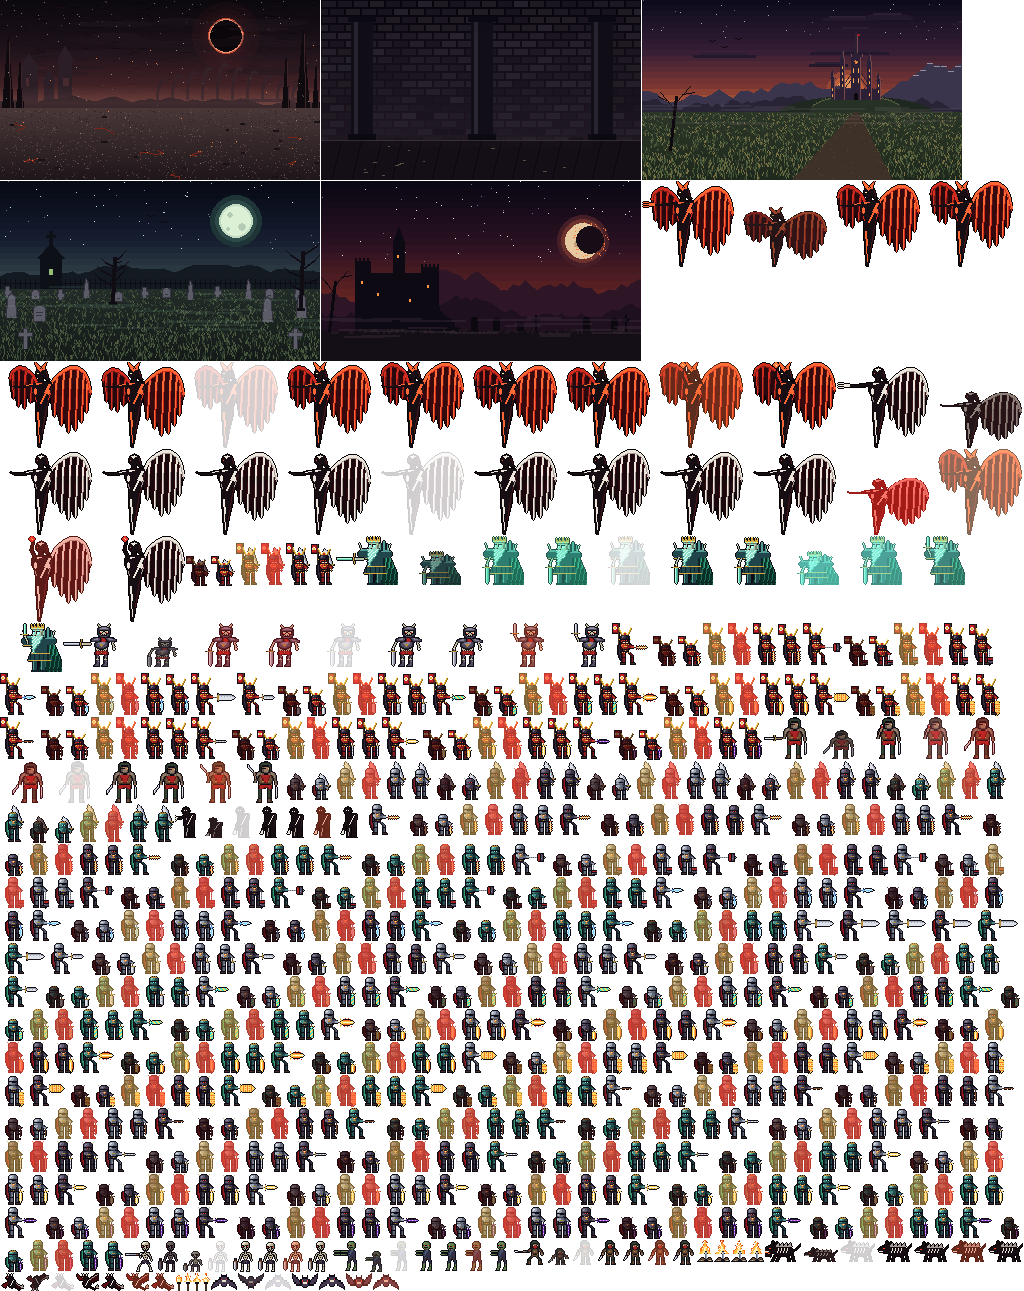
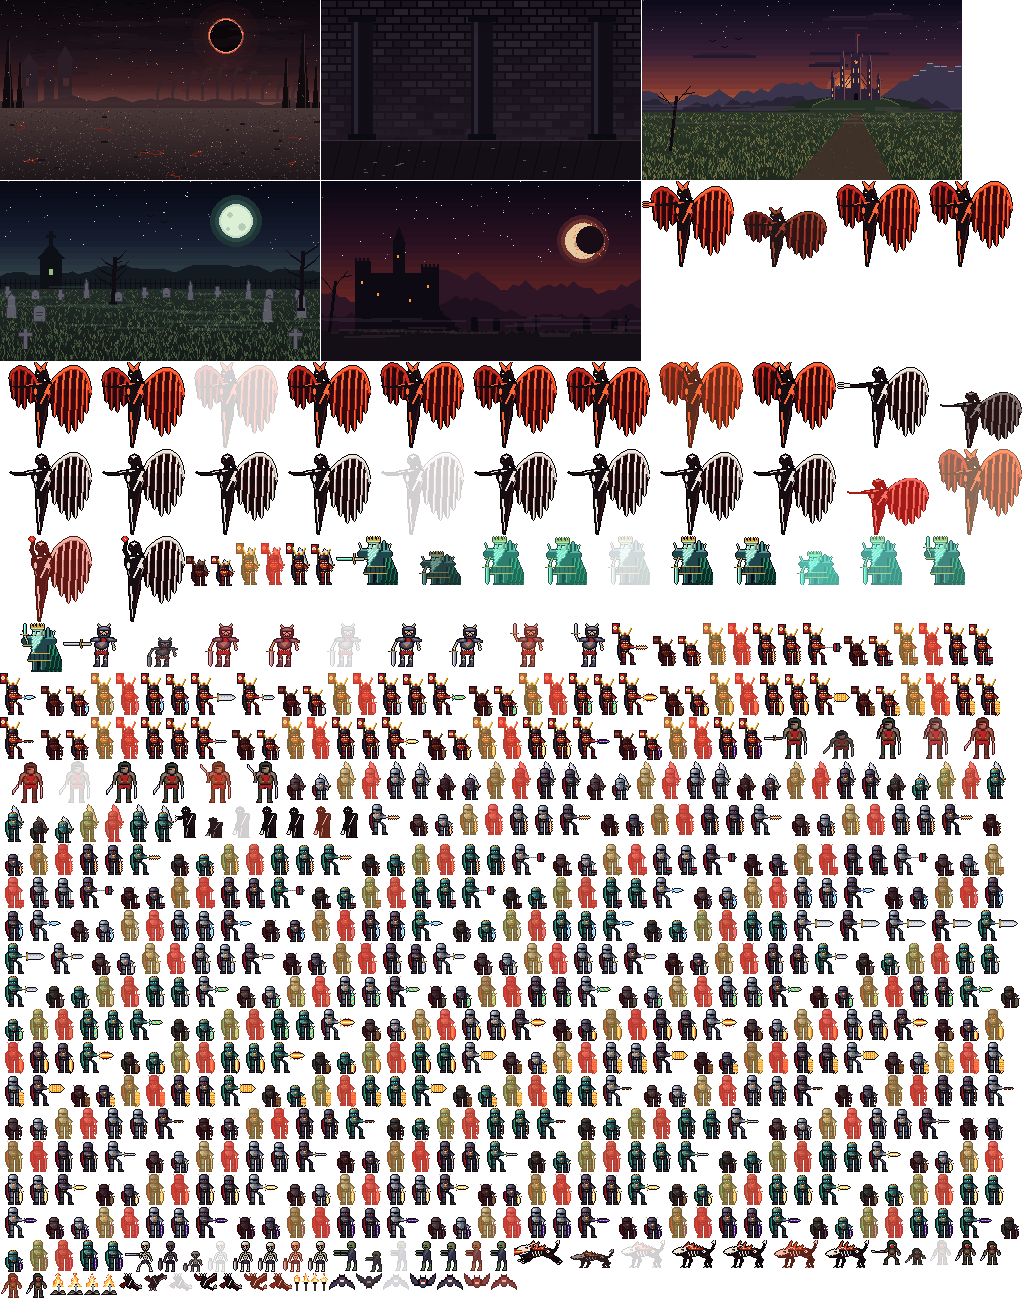
Redraw the hellhound: wolf skull, swept-back horns, fire mane, fire breath
Claude-Session: https://claude.ai/code/session_011mW4u7Ce1C3wwPLST6Z2ZA

diff --git a/fitness_rpg/web/js/game.js b/fitness_rpg/web/js/game.js
@@ -1104,8 +1104,8 @@ const TRANSFORM_TIME = 2.2; // перерождение Серафима во в
 const REVIVE_TIME = 2.5; // Король-Призрак встаёт после первой смерти
 const STUN_TIME = 2.0; // ошеломление гигантским мечом (враг открыт для крита)
 const BURN_EVERY = 1; // жар Радиатора: урон раз в секунду
-const HIT_X = { knight: 30, chief: 28, wraith: 31, seraph: 42, hound: 8, husk: 10 }; // центр врага для эффектов и «!»
-const HEAD_Y = { knight: 58, chief: 56, wraith: 64, bat: 56, imp: 56, seraph: 96, hound: 28, husk: 40 };
+const HIT_X = { knight: 30, chief: 28, wraith: 31, seraph: 42, hound: 12, husk: 10 }; // центр врага для эффектов и «!»
+const HEAD_Y = { knight: 58, chief: 56, wraith: 64, bat: 56, imp: 56, seraph: 96, hound: 30, husk: 40 };
 const SERAPH_HOVER = 12; // Серафим парит над землёй
 /** Высота «центра» врага над землёй для эффектов удара. */
 const hitY = (en) => (en.boss ? (en.kind === "seraph" ? 66 : 24) : Skeleton.FLYING.includes(en.kind) ? 34 : en.kind === "hound" ? 10 : 18);

diff --git a/fitness_rpg/web/sw.js b/fitness_rpg/web/sw.js
@@ -1,5 +1,5 @@
 // Офлайн-кэш: после первого запуска с сетью игра открывается и без интернета.
-const CACHE = "ash-and-iron-v30";
+const CACHE = "ash-and-iron-v31";
 const CORE = [
   "./", "index.html", "style.css", "manifest.webmanifest",
   "js/game.js", "js/motion.js", "js/exercises.js", "js/player.js", "js/sfx.js", "js/gear.js",

diff --git a/fitness_rpg/game/abyss.py b/fitness_rpg/game/abyss.py
@@ -194,32 +194,96 @@ def imp(pose="up"):
     return outlined(s)
 
 
-def hound(pose="idle"):
-    """Адская гончая: чёрный зверь с белыми рёбрами наружу и огнём в пасти."""
-    s = pygame.Surface((36, 22), pygame.SRCALPHA)
-    dx = -3 if pose == "attack" else 0
-    _line(s, BODY, (30, 9), (35, 4), 2)  # хвост
-    pygame.draw.ellipse(s, BODY, (10 + dx, 6, 22, 10))
-    for x0, x1 in ((13, 11), (17, 16), (25, 26), (29, 31)):  # лапы
-        stretch = 2 if pose == "attack" else 0
-        _line(s, BODY, (x0 + dx, 13), (x1 + dx - stretch * (x0 < 20), 21), 2)
-    for x in (16, 19, 22, 25):  # рёбра
-        _line(s, BONE, (x + dx, 8), (x + dx - 1, 12))
-    for x in (14, 18, 22, 26):  # шипы на хребте
-        _poly(s, BONE2, [(x + dx, 6), (x + dx + 2, 3), (x + dx + 3, 6)])
-    hx = 2 + dx
-    _poly(s, BODY, [(hx, 9), (hx + 4, 6), (hx + 11, 6), (hx + 11, 13), (hx + 5, 12)])
-    _line(s, BODY, (hx + 7, 6), (hx + 8, 1), 2)  # уши
-    _line(s, BODY, (hx + 10, 6), (hx + 12, 2), 2)
-    s.set_at((hx + 5, 8), EYE)
-    s.set_at((hx + 6, 8), EYE)
-    if pose == "attack":  # пасть раскрыта, внутри огонь
-        _poly(s, BODY, [(hx, 12), (hx + 6, 12), (hx + 6, 16), (hx + 1, 15)])
-        _line(s, MARK, (hx + 1, 12), (hx + 5, 13))
-        _line(s, BONE, (hx, 11), (hx + 4, 11))
+FIRE = ((150, 30, 20), (236, 104, 40), (255, 210, 120))  # тёмное, яркое и белое пламя
+
+
+def _flame(s, x, y, h, flick):
+    """Язык пламени высотой h от точки (x, y) вверх, кончик клонится назад (вправо)."""
+    lean = 1 + flick
+    _poly(s, FIRE[0], [(x - 1, y), (x + lean, y - h), (x + 2, y)])
+    if h > 2:
+        _line(s, FIRE[1], (x, y - 1), (x + lean, y - h + 1))
+    if h > 3:
+        s.set_at((x + lean // 2, y - 1), FIRE[2])
+
+
+def hound(pose="idle", flick=0):
+    """Адская гончая: поджарый чёрный зверь с белым волчьим черепом, рогами вдоль шеи, белыми рёбрами
+    и хребтом, огненной гривой и хвостом-хлыстом с костяным жалом. Смотрит влево."""
+    s = pygame.Surface((50, 28), pygame.SRCALPHA)
+    atk, low = pose == "attack", pose == "windup"
+    ox = 6 - (3 if atk else 0)  # слева запас под струю огня
+    hy = 2 if low else 0  # перед броском голова пригнута
+
+    def T(x, y):
+        return (x + ox, y)
+
+    def H(x, y):  # точки головы
+        return (x + ox, y + hy)
+
+    def legs(segs):
+        for leg in segs:
+            for i, (p0, p1) in enumerate(zip(leg, leg[1:])):
+                _line(s, BODY, T(*p0), T(*p1), 2 if i < len(leg) - 2 else 1)
+            e = T(*leg[-1])
+            s.set_at((e[0] - 1, e[1]), BONE)
+            s.set_at((e[0] - 2, e[1]), BONE2)
+
+    # хвост-хлыст с костяным жалом
+    tail = [(36, 11), (39, 8 - flick), (41, 4 - flick), (40, 1)]
+    for i, (p0, p1) in enumerate(zip(tail, tail[1:])):
+        _line(s, BODY, T(*p0), T(*p1), 2 if i == 0 else 1)
+    _poly(s, BONE, [T(39, 2), T(42, -1), T(41, 3)])
+    # задние лапы — с изломом; в прыжке выпрямлены назад
+    legs([((30, 14), (34, 19), (32, 22), (33, 27)), ((33, 14), (37, 19), (36, 22), (37, 27))] if not atk else
+         [((30, 14), (35, 18), (39, 21), (42, 23)), ((33, 14), (38, 17), (42, 19), (44, 21))])
+    # туловище: высокая грудь, втянутый живот, мощный круп
+    _poly(s, BODY, [T(*p) for p in [(10, 10), (16, 8), (24, 10), (30, 8), (36, 10), (35, 15), (29, 16), (25, 14), (18, 16), (11, 17)]])
+    _line(s, RIM, T(11, 17), T(18, 16))
+    _line(s, RIM, T(29, 16), T(35, 15))
+    # передние лапы; в прыжке выброшены вперёд
+    legs([((12, 16), (11, 21), (10, 27)), ((16, 16), (17, 21), (15, 27))] if not atk else
+         [((12, 15), (7, 18), (3, 20)), ((15, 16), (11, 20), (7, 22))])
+    # кости: хребет, рёбра, таз
+    _line(s, BONE, T(16, 9), T(28, 9))
+    for x in (15, 18, 21):
+        _line(s, BONE, T(x, 11), T(x + 1, 15))
+    _line(s, BONE2, T(24, 11), T(24, 13))
+    pygame.draw.ellipse(s, BONE, (*T(29, 10), 4, 3))
+    s.set_at(T(30, 11), BODY)
+    # огненная грива: неровные языки, клонятся назад
+    for i, (x, h) in enumerate(((11, 5), (13, 7), (16, 5), (18, 6), (21, 4), (24, 3), (27, 2))):
+        _flame(s, *T(x, 9), h + (flick if i % 2 else -flick), 1 + flick)
+    # шея и волчий череп
+    _poly(s, BODY, [H(8, 8), H(13, 6), T(16, 10), T(11, 15)])
+    if atk:  # пасть распахнута: морда вверх, челюсть вниз, из глотки — струя огня
+        _poly(s, BONE, [H(0, 8), H(4, 6), H(9, 5), H(13, 7), H(12, 10), H(6, 10), H(1, 10)])
+        _poly(s, BODY, [H(2, 13), H(11, 11), H(10, 15), H(4, 16)])
+        _line(s, BONE, H(3, 14), H(10, 12))  # нижняя челюсть
+        for x in (2, 5, 8):
+            s.set_at(H(x, 10), BONE)
+            s.set_at(H(x + 1, 12), BONE)
+        _poly(s, FIRE[0], [H(9, 11), H(-6, 8), H(-6, 15)])
+        _poly(s, FIRE[1], [H(8, 11), H(-4, 10), H(-4, 13)])
+        _line(s, FIRE[2], H(6, 11), H(-1, 11))
+        eye = H(9, 7)
     else:
-        _line(s, BONE, (hx + 1, 11), (hx + 4, 11))  # клыки
-    return outlined(s)
+        _poly(s, BONE, [H(0, 11), H(3, 9), H(8, 7), H(12, 8), H(13, 10), H(10, 12), H(4, 13), H(0, 12)])
+        _line(s, BONE2, H(3, 13), H(10, 12))
+        _poly(s, BODY, [H(2, 13), H(10, 12), H(9, 14), H(3, 14)])  # челюсть
+        for x in (3, 6):
+            s.set_at(H(x, 13), BONE)  # клыки
+        eye = H(9, 9)
+    s.set_at(H(0, 11 if not atk else 8), BODY)  # ноздря
+    pygame.draw.rect(s, BODY, (eye[0] - 1, eye[1], 3, 2))  # косая глазница с огнём
+    s.set_at((eye[0], eye[1] + 1), EYE)
+    s.set_at((eye[0] - 1, eye[1] + 1), (255, 180, 80))
+    # рога загнуты назад вдоль шеи
+    r0 = H(11, 7) if not atk else H(11, 5)
+    _line(s, BONE, r0, (r0[0] + 4, r0[1] - 2))
+    _line(s, BONE, (r0[0] + 4, r0[1] - 2), (r0[0] + 8, r0[1] - 1))
+    _line(s, BONE2, (r0[0] + 8, r0[1] - 1), (r0[0] + 9, r0[1] + 1))
+    return outlined(s, (6, 2, 4))
 
 
 def husk(pose="idle"):
@@ -259,11 +323,12 @@ def make_imp_frames():
 
 
 def make_hound_frames():
-    idle = hound("idle")
+    idle, idle2 = hound("idle", 0), hound("idle", 1)  # грива и хвост колышутся
+    low = hound("windup", 1)
     return {
-        "idle": [idle, shifted_breath(idle, 10)],
-        "windup": [tinted(idle, (255, 90, 50), 0.35), idle],
-        "attack": [hound("attack")],
+        "idle": [idle, idle2],
+        "windup": [tinted(low, (255, 90, 50), 0.3), low],
+        "attack": [hound("attack", 1)],
         "hurt": [tinted(idle, (255, 255, 255), 0.8)],
         "dead": [crouched(tinted(idle, (60, 40, 40), 0.5))],
     }
